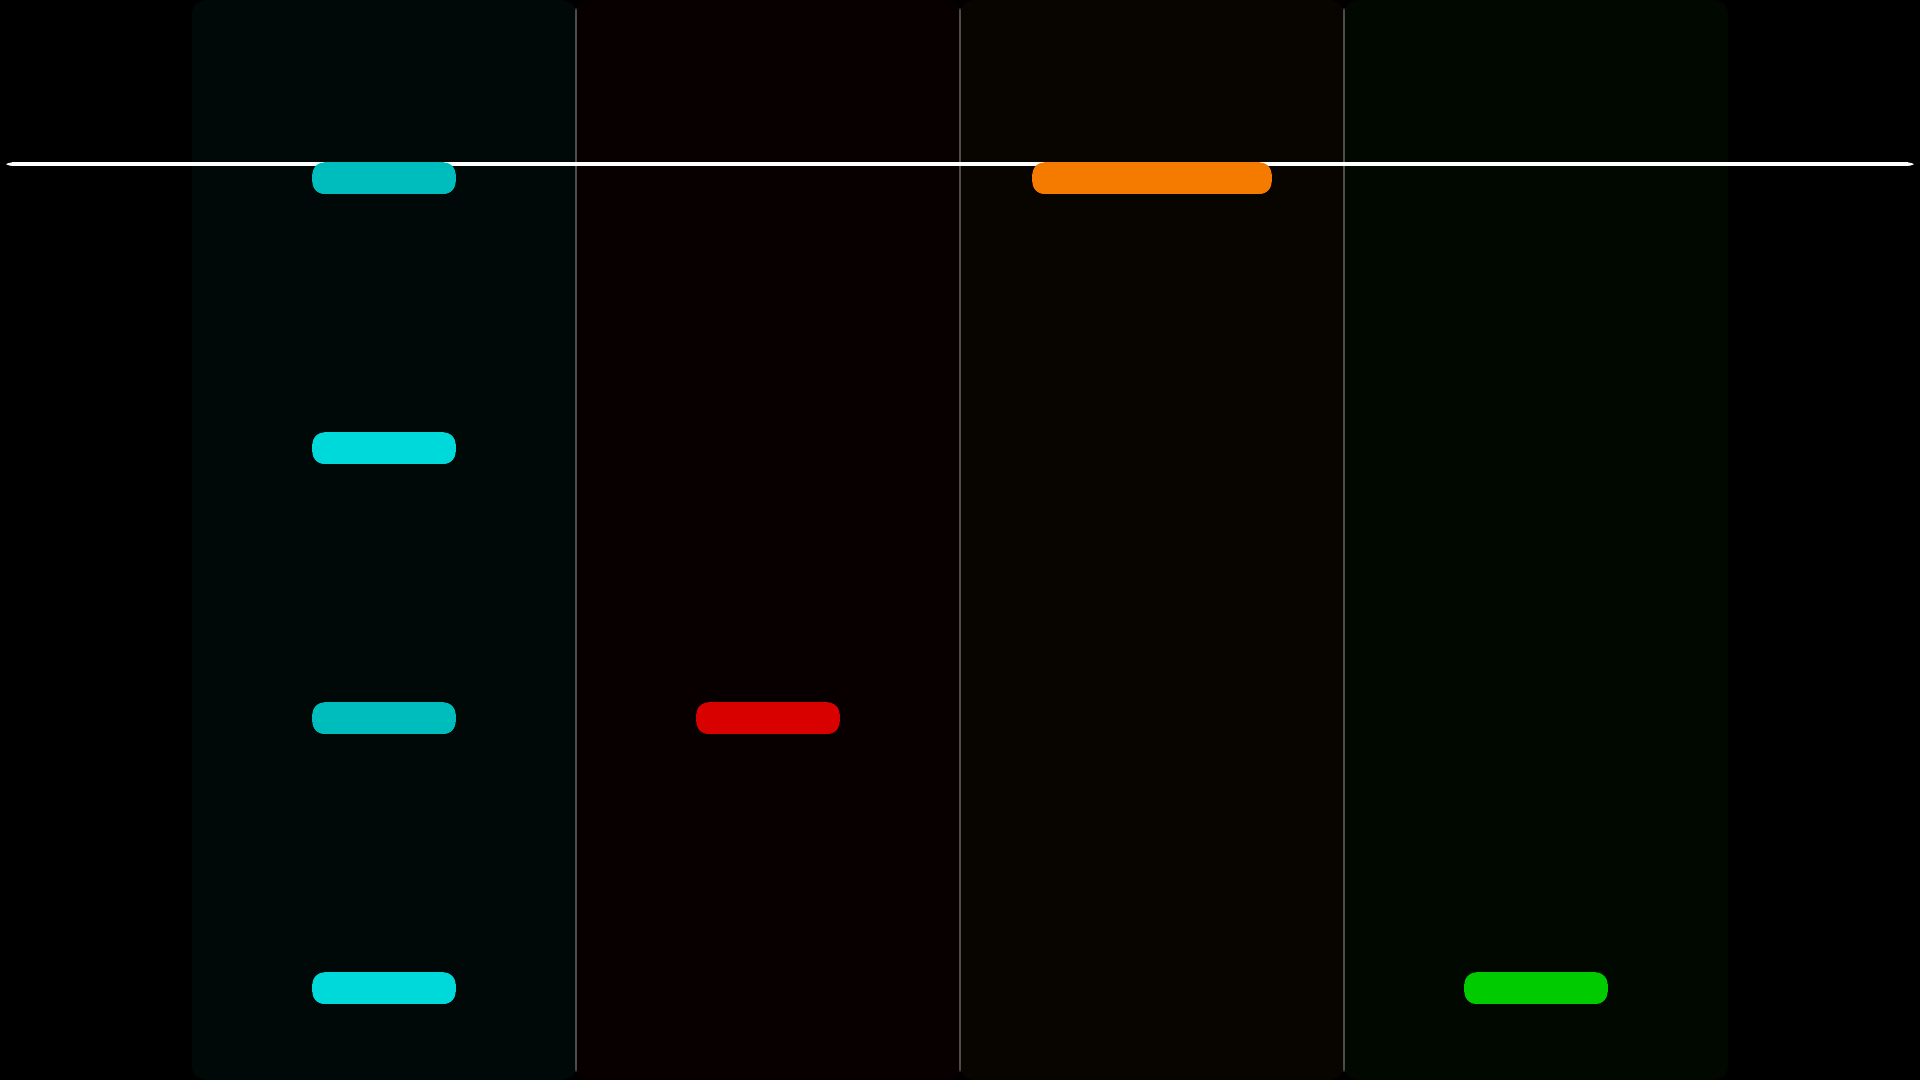
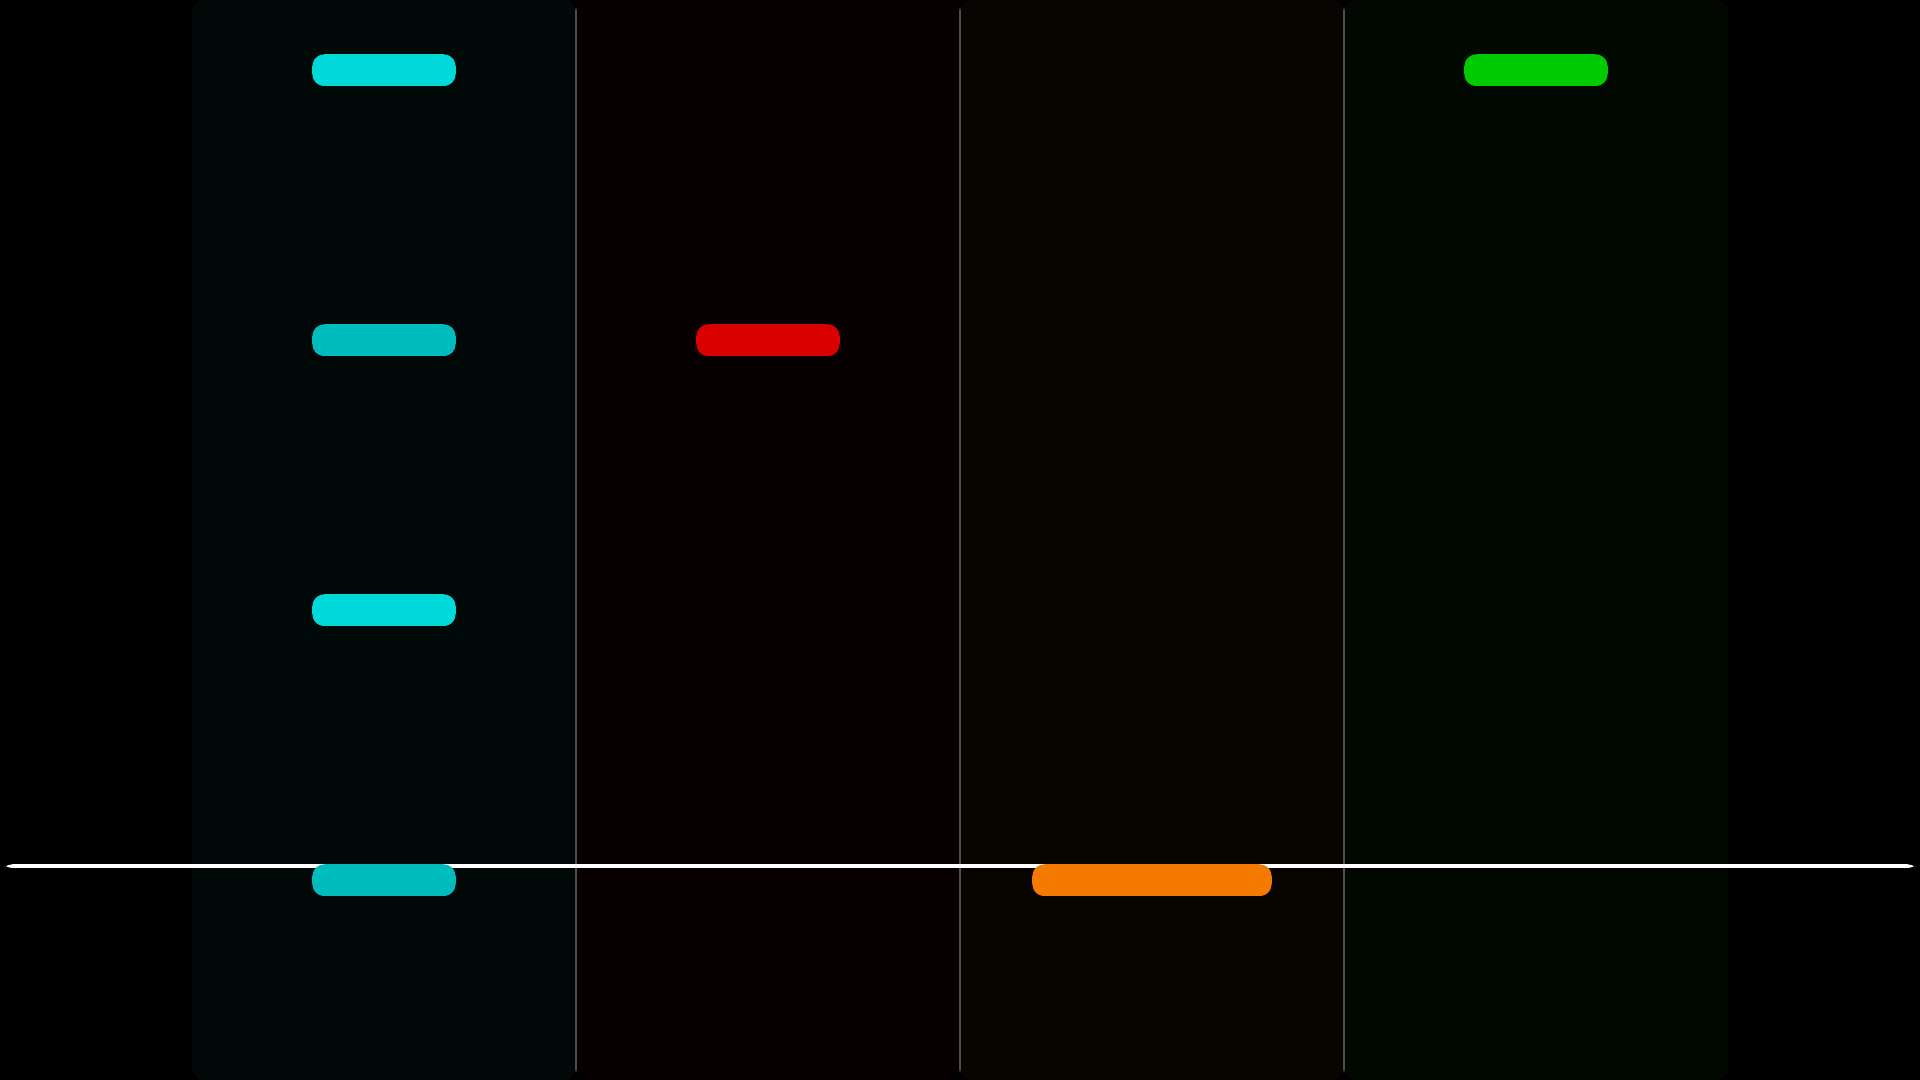
fix: correct falling note direction and visibility clipping
- Fixed coordinate system: notes now fall from top (high Y) to bottom (low Y)
- Fixed calculate_note_y_position: removed negative sign for correct direction
- Fixed calculate_visibility_window: corrected distance calculations for OpenGL coords
- Fixed calculate_note_alpha_fade: fade applies below strike line (lower Y)
- Fixed is_note_visible: proper bounds checking with note height
- Updated strike line position to -0.6 (20% from bottom)
- Added buffer above screen (screen_top=1.0 + note_height) for smooth appearance
- Updated all tests to expect correct falling behavior
- Notes now smoothly appear from above screen and fade after strike line

diff --git a/animation_core.py b/animation_core.py
@@ -72,12 +72,12 @@ def calculate_visibility_window(
     Returns:
         (lookahead_time, lookbehind_time) in seconds
     """
-    # Distance from top to strike line
-    distance_above = strike_line_y - screen_top
+    # Distance from top to strike line (top has higher Y, strike line lower)
+    distance_above = screen_top - strike_line_y
     lookahead_time = distance_above / fall_speed
     
-    # Distance from strike line to bottom
-    distance_below = screen_bottom - strike_line_y
+    # Distance from strike line to bottom (strike line higher Y, bottom lower)
+    distance_below = strike_line_y - screen_bottom
     lookbehind_time = distance_below / fall_speed
     
     return (lookahead_time, lookbehind_time)
@@ -151,7 +151,8 @@ def note_to_rectangle(
     current_time: float,
     lanes: List[str],
     strike_line_y: float,
-    fall_speed: float
+    fall_speed: float,
+    screen_bottom: float = -1.0
 ) -> Dict[str, Any]:
     """Convert note data to rectangle specification
     
@@ -181,9 +182,9 @@ def note_to_rectangle(
     # Calculate brightness from velocity
     brightness = velocity_to_brightness(note['velocity'])
     
-    # Apply fade if past strike line
-    if y_pos > strike_line_y:
-        alpha_fade = calculate_note_alpha_fade(y_pos, strike_line_y, 1.0)
+    # Apply fade if past strike line (below it, lower Y value)
+    if y_pos < strike_line_y:
+        alpha_fade = calculate_note_alpha_fade(y_pos, strike_line_y, screen_bottom)
         brightness *= alpha_fade
     
     # Get color
@@ -238,8 +239,9 @@ def build_frame_scene(
     notes: List[Dict[str, Any]],
     current_time: float,
     lanes: List[str],
-    strike_line_y: float = 0.7,
-    fall_speed: float = 1.0,
+    strike_line_y: float,
+    fall_speed: float,
+    screen_bottom: float = -1.0,
     include_backgrounds: bool = True,
     include_markers: bool = True,
     include_strike_line: bool = True
@@ -252,6 +254,7 @@ def build_frame_scene(
         lanes: List of all lane names
         strike_line_y: Y position of strike line
         fall_speed: Note fall speed
+        screen_bottom: Y position of screen bottom (for fade calculation)
         include_backgrounds: Whether to include lane backgrounds
         include_markers: Whether to include lane markers
         include_strike_line: Whether to include strike line
@@ -297,11 +300,12 @@ def build_frame_scene(
             current_time=current_time,
             lanes=lanes,
             strike_line_y=strike_line_y,
-            fall_speed=fall_speed
+            fall_speed=fall_speed,
+            screen_bottom=screen_bottom
         )
         
         # Only add if visible on screen
-        if is_note_visible(rect['y']):
+        if is_note_visible(rect['y'], rect['height'], screen_top=1.0, screen_bottom=screen_bottom):
             elements.append(rect)
     
     return elements

diff --git a/test_moderngl_core.py b/test_moderngl_core.py
@@ -119,46 +119,46 @@ class TestNotePositionCalculations:
     """Test pure functions for note positioning in falling animation"""
     
     def test_calculate_note_y_position(self):
-        """Should calculate Y position based on time until hit"""
+        """Should calculate Y position based on time until hit - notes fall DOWN from top"""
         from moderngl_core import calculate_note_y_position
         
         # Note hits at strike line (y=0.7), falls at 1.0 units/second
-        # 2 seconds before hit should be at y=-1.3 (0.7 - 2.0)
+        # 2 seconds before hit should be ABOVE strike line (higher Y value)
         y_pos = calculate_note_y_position(
             time_until_hit=2.0,
             strike_line_y=0.7,
             fall_speed=1.0
         )
-        assert y_pos == pytest.approx(-1.3)
+        assert y_pos == pytest.approx(2.7)  # 0.7 + 2.0 (above)
         
         # At strike line (time=0)
         y_pos = calculate_note_y_position(0.0, 0.7, 1.0)
         assert y_pos == pytest.approx(0.7)
         
-        # After hit (continues falling)
+        # After hit (continues falling down, below strike line)
         y_pos = calculate_note_y_position(-1.0, 0.7, 1.0)
-        assert y_pos == pytest.approx(1.7)
+        assert y_pos == pytest.approx(-0.3)  # 0.7 - 1.0 (below)
     
     def test_calculate_note_alpha_fade(self):
-        """Should calculate alpha based on position after strike"""
+        """Should calculate alpha based on position after strike - OpenGL coords"""
         from moderngl_core import calculate_note_alpha_fade
         
-        strike_line_y = 0.7
-        screen_bottom = 1.0
+        strike_line_y = -0.6
+        screen_bottom = -1.0
         
         # At strike line: full opacity
-        alpha = calculate_note_alpha_fade(0.7, strike_line_y, screen_bottom)
+        alpha = calculate_note_alpha_fade(-0.6, strike_line_y, screen_bottom)
         assert alpha == pytest.approx(1.0)
         
         # Halfway to bottom: faded to 0.6
-        alpha = calculate_note_alpha_fade(0.85, strike_line_y, screen_bottom)
+        alpha = calculate_note_alpha_fade(-0.8, strike_line_y, screen_bottom)
         assert alpha == pytest.approx(0.6)
         
         # At bottom: minimum opacity (0.2)
-        alpha = calculate_note_alpha_fade(1.0, strike_line_y, screen_bottom)
+        alpha = calculate_note_alpha_fade(-1.0, strike_line_y, screen_bottom)
         assert alpha == pytest.approx(0.2)
         
-        # Before strike line: always 1.0
+        # Above strike line: always 1.0
         alpha = calculate_note_alpha_fade(0.5, strike_line_y, screen_bottom)
         assert alpha == pytest.approx(1.0)
     

diff --git a/moderngl_core.py b/moderngl_core.py
@@ -159,9 +159,10 @@ def calculate_note_y_position(
     Returns:
         Y position in normalized coordinates
     """
-    # Distance = speed * time
-    # Negative time means note has passed strike line (continues falling)
-    distance_from_strike = -time_until_hit * fall_speed
+    # Positive time_until_hit means note is in future (ABOVE strike line in screen space)
+    # Negative time_until_hit means note is in past (BELOW strike line, already hit)
+    # In OpenGL: higher Y = top of screen, lower Y = bottom
+    distance_from_strike = time_until_hit * fall_speed
     return strike_line_y + distance_from_strike
 
 
@@ -180,31 +181,35 @@ def calculate_note_alpha_fade(
     Returns:
         Alpha value 0.2 to 1.0
     """
-    # Before strike line: always full opacity
-    if note_y <= strike_line_y:
+    # In OpenGL coords: higher Y = top, lower Y = bottom
+    # Notes above strike line (note_y > strike_line_y): full opacity
+    if note_y >= strike_line_y:
         return 1.0
     
-    # After strike line: fade from 1.0 to 0.2
-    distance_after_strike = note_y - strike_line_y
-    max_distance = screen_bottom - strike_line_y
+    # Notes below strike line (already hit): fade from 1.0 to 0.2
+    distance_after_strike = strike_line_y - note_y
+    max_distance = strike_line_y - screen_bottom
     fade_progress = min(distance_after_strike / max_distance, 1.0)
     
     # Fade from 1.0 to 0.2 (never fully transparent)
     return 1.0 - (0.8 * fade_progress)
 
 
-def is_note_visible(note_y: float, screen_top: float = -1.0, screen_bottom: float = 1.0) -> bool:
+def is_note_visible(note_y: float, note_height: float = 0.06, screen_top: float = 1.0, screen_bottom: float = -1.0) -> bool:
     """Check if note is within visible screen bounds
     
     Args:
-        note_y: Y position of note
-        screen_top: Top of screen in normalized coords
-        screen_bottom: Bottom of screen in normalized coords
+        note_y: Y position of note (top-left corner)
+        note_height: Height of note
+        screen_top: Top of screen in normalized coords (higher Y)
+        screen_bottom: Bottom of screen in normalized coords (lower Y)
     
     Returns:
-        True if note is visible
+        True if note is visible (any part on screen)
     """
-    return screen_top <= note_y <= screen_bottom
+    note_bottom = note_y - note_height
+    # Note visible if bottom edge is below screen top AND top edge is above screen bottom
+    return note_bottom <= screen_top and note_y >= screen_bottom
 
 
 # ============================================================================

diff --git a/debug_coordinates.py b/debug_coordinates.py
@@ -1,0 +1,57 @@
+#!/usr/bin/env python3
+"""
+Debug coordinate system to understand note falling direction
+"""
+
+from moderngl_shell import render_frame_to_file
+from animation_core import build_frame_scene
+
+# Create notes at different time positions
+notes = [
+    {'time': 0.0, 'lane': 'hihat', 'velocity': 100},  # At strike line
+    {'time': 1.0, 'lane': 'snare', 'velocity': 100},  # 1s in future (should be above)
+    {'time': -1.0, 'lane': 'kick', 'velocity': 100}, # 1s in past (should be below)
+]
+
+lanes = ['hihat', 'snare', 'kick', 'tom']
+
+# Render at time=0.0
+scene = build_frame_scene(
+    notes=notes,
+    current_time=0.0,
+    lanes=lanes,
+    strike_line_y=0.7,
+    fall_speed=1.0
+)
+
+# Print positions
+print("\nNote positions at current_time=0.0:")
+print(f"Strike line Y: 0.7")
+for i, note in enumerate(notes):
+    print(f"\nNote {i+1}: time={note['time']}s, lane={note['lane']}")
+    # Find this note's rectangle in scene
+    for element in scene:
+        if element.get('color') == (0.0, 1.0, 1.0) and i == 0:  # hihat cyan
+            print(f"  Y position: {element['y']:.2f}")
+            break
+        elif element.get('color') == (1.0, 0.0, 0.0) and i == 1:  # snare red
+            print(f"  Y position: {element['y']:.2f}")
+            break
+        elif element.get('color') == (1.0, 0.5, 0.0) and i == 2:  # kick orange
+            print(f"  Y position: {element['y']:.2f}")
+            break
+
+print("\nExpected behavior (OpenGL: Y=+1 is TOP, Y=-1 is BOTTOM):")
+print("  time=1.0 (future) → Y > 0.7 (above strike line, near top)")
+print("  time=0.0 (now)    → Y = 0.7 (at strike line)")
+print("  time=-1.0 (past)  → Y < 0.7 (below strike line, near bottom)")
+
+render_frame_to_file(
+    rectangles=scene,
+    output_path="debug_coordinates.png",
+    width=1920,
+    height=1080
+)
+
+print("\n✓ Rendered debug_coordinates.png")
+print("Check image: notes should fall from TOP to BOTTOM")

diff --git a/test_animation_core.py b/test_animation_core.py
@@ -61,7 +61,7 @@ class TestFrameGeneration:
         
         # Should have correct lane position
         assert rect['x'] is not None
-        assert rect['y'] < 0.7  # Above strike line (time=2.0 means 2 seconds before hit)
+        assert rect['y'] > 0.7  # Above strike line (time=2.0 means 2 seconds before hit, higher Y in OpenGL)
         
         # Should have color based on lane
         assert rect['color'] is not None
@@ -114,21 +114,21 @@ class TestNoteVisibilityWindow:
         """Should calculate time window for visible notes"""
         from animation_core import calculate_visibility_window
         
-        # At strike line y=0.7, screen top y=-1.0, fall speed 1.0 unit/sec
+        # OpenGL coords: top=1.0, bottom=-1.0, strike line=-0.6, fall speed 1.0 unit/sec
         lookahead, lookbehind = calculate_visibility_window(
-            strike_line_y=0.7,
-            screen_top=-1.0,
-            screen_bottom=1.0,
+            strike_line_y=-0.6,
+            screen_top=1.0,
+            screen_bottom=-1.0,
             fall_speed=1.0
         )
         
         # Lookahead: time for note to travel from top to strike line
-        # Distance = 0.7 - (-1.0) = 1.7
-        assert lookahead == pytest.approx(1.7)
+        # Distance = 1.0 - (-0.6) = 1.6
+        assert lookahead == pytest.approx(1.6)
         
         # Lookbehind: time for note to travel from strike to bottom
-        # Distance = 1.0 - 0.7 = 0.3
-        assert lookbehind == pytest.approx(0.3)
+        # Distance = -0.6 - (-1.0) = 0.4
+        assert lookbehind == pytest.approx(0.4)
     
     def test_is_note_in_window(self):
         """Should determine if note is in visibility window"""

diff --git a/demo_animation.py b/demo_animation.py
@@ -74,11 +74,12 @@ def render_animation_to_frames(
     print(f"Duration: {duration}s")
     print(f"Notes: {len(notes)}")
     
-    # Calculate visibility window
+    # Calculate visibility window (add note height buffer so notes appear from above screen)
+    note_height = 0.06
     lookahead, lookbehind = calculate_visibility_window(
-        strike_line_y=0.7,
-        screen_top=-1.0,
-        screen_bottom=1.0,
+        strike_line_y=-0.6,
+        screen_top=1.0 + note_height,  # Start notes with bottom edge at screen top
+        screen_bottom=-1.0,
         fall_speed=1.0
     )
     
@@ -103,8 +104,9 @@ def render_animation_to_frames(
             notes=visible_notes,
             current_time=current_time,
             lanes=lanes,
-            strike_line_y=0.7,
-            fall_speed=1.0
+            strike_line_y=-0.6,
+            fall_speed=1.0,
+            screen_bottom=-1.0
         )
         
         frame_scenes.append(scene)

diff --git a/test_fade_logic.py b/test_fade_logic.py
@@ -1,0 +1,25 @@
+#!/usr/bin/env python3
+"""Test fade logic to debug"""
+
+from moderngl_core import calculate_note_alpha_fade
+
+# Screen setup
+strike_line_y = -0.6
+screen_bottom = -1.0
+
+# Test different note positions
+test_positions = [
+    (0.5, "above strike line"),
+    (-0.6, "at strike line"),
+    (-0.7, "slightly below"),
+    (-0.8, "halfway to bottom"),
+    (-1.0, "at bottom"),
+]
+
+print(f"Strike line Y: {strike_line_y}")
+print(f"Screen bottom Y: {screen_bottom}")
+print(f"\nNote Y -> Alpha (should fade from 1.0 to 0.2 as it goes below strike line):\n")
+
+for y, desc in test_positions:
+    alpha = calculate_note_alpha_fade(y, strike_line_y, screen_bottom)
+    print(f"  Y={y:5.1f} ({desc:20s}): alpha={alpha:.2f}")
